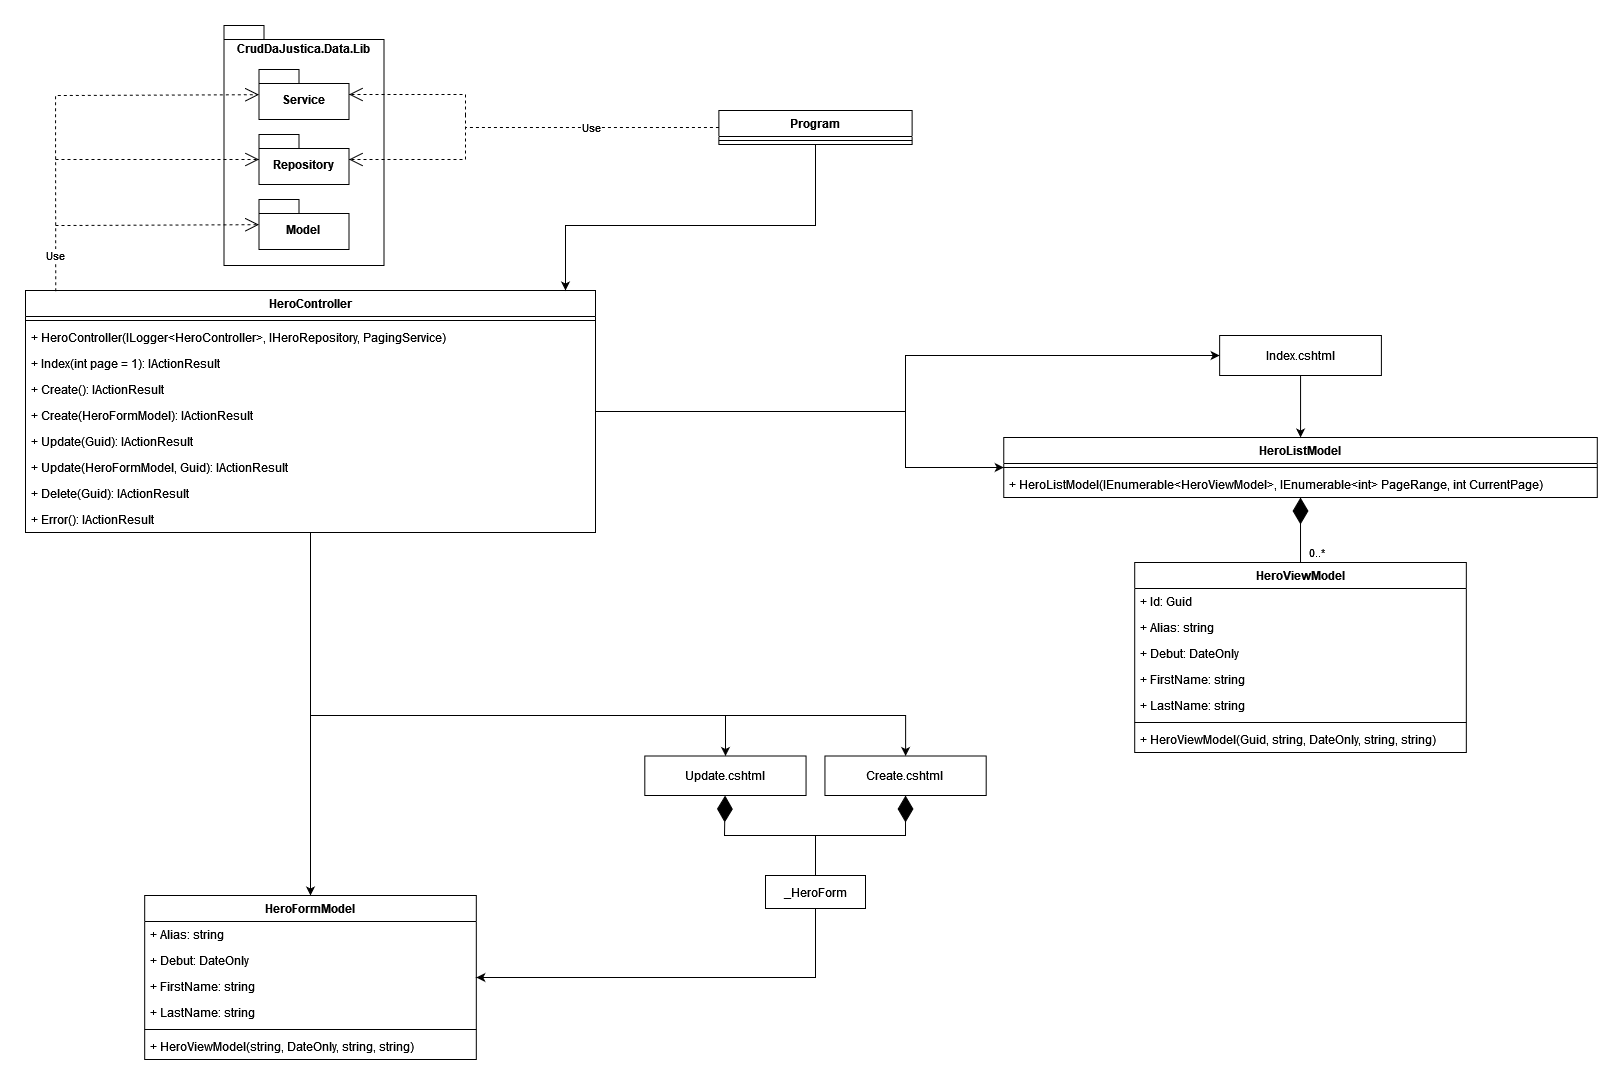
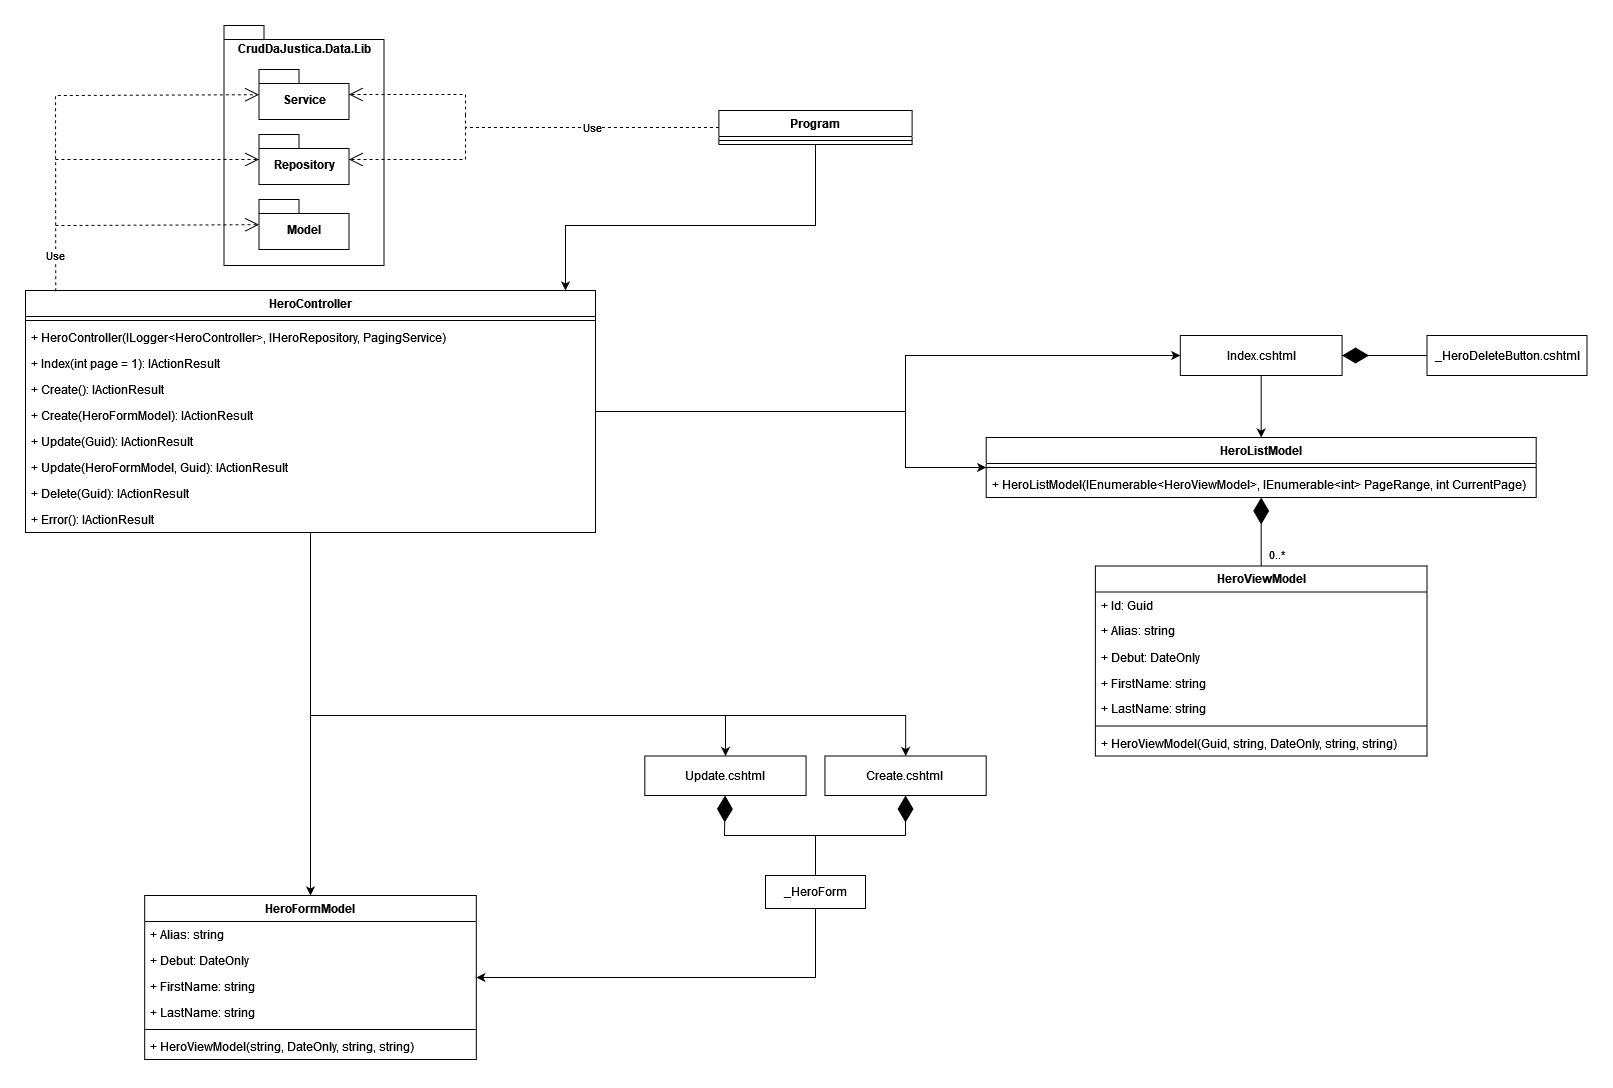
Implemente o prompt de confirmação

diff --git a/src/CrudDaJustica.Website/Controllers/HeroController.cs b/src/CrudDaJustica.Website/Controllers/HeroController.cs
@@ -74,6 +74,7 @@ public class HeroController : Controller
         {
             var newHero = new HeroEntity(heroFormModel.Alias, heroFormModel.Debut, heroFormModel.FirstName, heroFormModel.LastName);
             heroRepository.RegisterHero(newHero);
+            logger.LogInformation("Hero successfully created");
         }
 
         return Create();
@@ -87,7 +88,13 @@ public class HeroController : Controller
     [HttpGet]
     public IActionResult Update(Guid id)
     {
-        var hero = heroRepository.GetHero(id) ?? null!;
+        var hero = heroRepository.GetHero(id);
+
+        if (hero is null)
+        {
+            logger.LogWarning("{timestamp}: there was an attempt at updating a non-registered hero", DateTime.Now.ToString());
+            return RedirectToAction(nameof(Index));
+        }
 
         var heroFormModel = new HeroFormModel(hero.Alias, hero.Debut, hero.FirstName, hero.LastName);
 
@@ -115,7 +122,10 @@ public class HeroController : Controller
                 LastName = heroFormModel.LastName,
             };
 
-            heroRepository.UpdateHero(id, updatedInformation);
+            if (heroRepository.UpdateHero(id, updatedInformation))
+            {
+                logger.LogInformation("Hero successfully updated");
+            }
         }
 
         return View((heroFormModel, id));
@@ -131,7 +141,10 @@ public class HeroController : Controller
     {
         logger.LogInformation("Attempting to delete a hero");
 
-        heroRepository.DeleteHero(id);
+        if (heroRepository.DeleteHero(id))
+        {
+            logger.LogInformation("Hero successfully deleted");
+        }
 
         return RedirectToAction(nameof(Index));
     }
